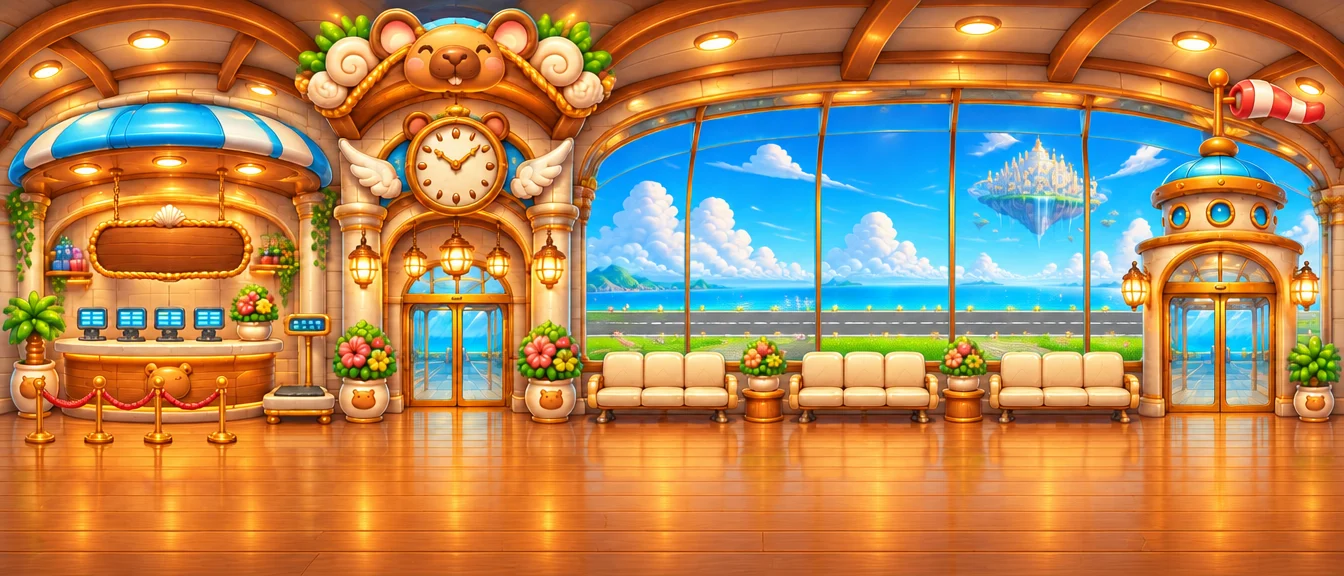
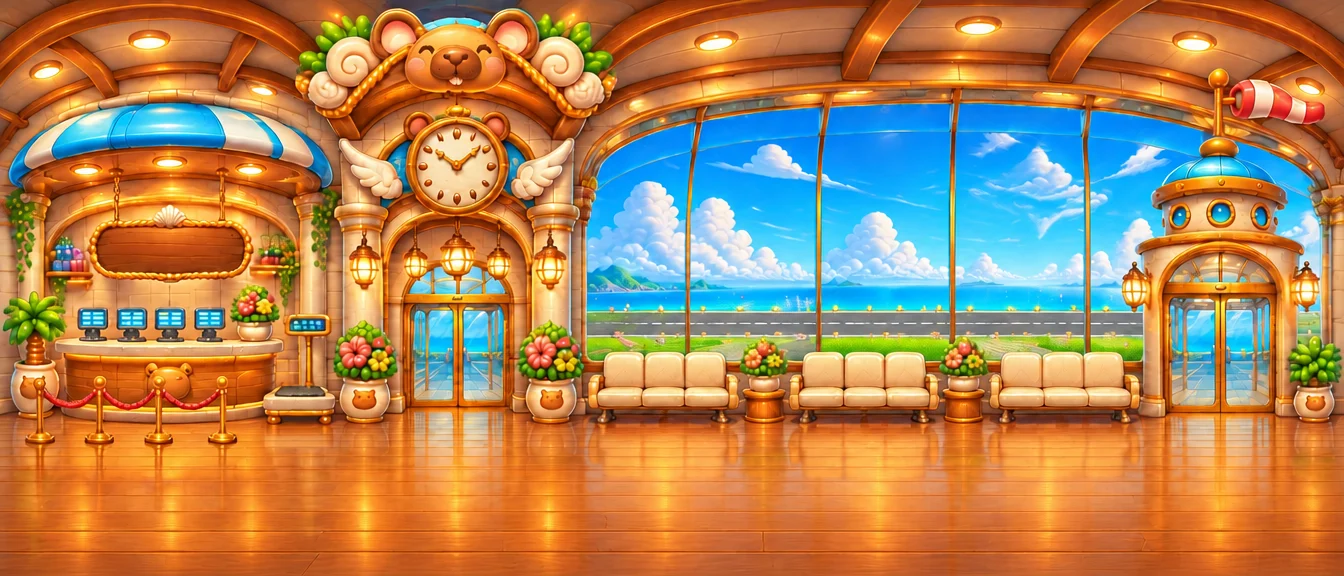
카피공항 예시판: 팻말 맨 앞·바깥 승무원 제거·간판 글씨 키움·비행기 야자수 뒤로·바깥 10초 이착륙 반복·섬 제거·기장 출입구 옆·실내 위아래 이동·출입구 앞 정차 후 10초 탑승
Claude-Session: https://claude.ai/code/session_015t7mweLLBzEFYGgsGmysr6

diff --git a/js/airport.js b/js/airport.js
@@ -1,12 +1,12 @@
 // 카피공항: 놀이터 왼쪽 '카피공항으로' 팻말로 가는 따로 된 공간(농장처럼).
-// 바깥: 바닷가 도로 · 통유리 터미널 · 그 뒤 활주로 · 승무원 둘. 터미널에 들어가면 안쪽: 카운터 · 출국 대기장 · 큰 창 너머 활주로.
+// 바깥: 바닷가 도로 · 통유리 터미널 · 그 뒤 활주로(비행기가 10초마다 내리고 뜬다). 터미널에 들어가면 안쪽: 카운터 · 출국 대기장 · 큰 창 너머 활주로.
 // 비행기: 10분마다 한 번 내려앉아 잠시 머물다 다시 떠난다(두 사람 화면이 같은 시계로 맞춰 움직인다)
 import { h, toast, modal, holdBtn } from './ui.js';
 import { capy } from './capy.js';
 import { sfx } from './sound.js';
 
 const BG_W = 1344, BG_H = 576, WALK_SP = 150;
-export const FLIGHT = { every: 600000, land: 10000, stay: 90000, off: 8000 }; // 10분마다: 10초 동안 왼쪽으로 들어와 내려앉아 서고 → 1분 30초 탑승 → 8초 동안 오른쪽으로 달려 나가 떠난다
+export const FLIGHT = { every: 600000, land: 10000, stay: 10000, off: 8000 }; // 10분마다: 10초 동안 왼쪽으로 들어와 출입구 앞에 서고 → 10초 안에 타야 한다 → 8초 동안 오른쪽으로 달려 나가 떠난다
 export function flightNow(t) { const k = ((t % FLIGHT.every) + FLIGHT.every) % FLIGHT.every, a = FLIGHT.land, b = a + FLIGHT.stay, c = b + FLIGHT.off;
   if (k < a) return { phase: 'land', p: k / a, left: 0 }; if (k < b) return { phase: 'stay', p: (k - a) / FLIGHT.stay, left: b - k }; if (k < c) return { phase: 'off', p: (k - b) / FLIGHT.off, left: 0 };
   return { phase: 'none', p: 0, left: FLIGHT.every - k }; }
@@ -16,10 +16,10 @@ const mmss = ms => { const s = Math.max(0, Math.ceil(ms / 1000)); return `${Math
 const ease = x => x * x * (3 - 2 * x);
 // 비행기 위치(창·활주로 한 칸 기준 0~1, y는 위로 갈수록 -): 들어올 때는 오른쪽 하늘에서 내려와 왼쪽(<)으로 굴러 가운데 멈추고,
 // 떠날 때는 오른쪽을 보고 달려 나가 떠오르며 화면 밖으로 사라진다
-function planePos(f) { if (f.phase === 'land') { const p = f.p; if (p < 0.45) { const e = ease(p / 0.45); return { x: 1.3 - 0.45 * e, y: -0.9 * (1 - e), r: -6 * (1 - e), flip: 0, on: 1 }; }
-    const e = 1 - Math.pow(1 - (p - 0.45) / 0.55, 2); return { x: 0.85 - 0.35 * e, y: 0, r: 0, flip: 0, on: 1 }; }
-  if (f.phase === 'stay') return { x: 0.5, y: 0, r: 0, flip: 0, on: 1 };
-  if (f.phase === 'off') { const p = f.p, e = p * p; return { x: 0.5 + 1.0 * e, y: -Math.max(0, p - 0.5) * 1.6, r: -Math.min(10, Math.max(0, p - 0.45) * 30), flip: 1, on: 1 }; }
+function planePos(f, at = 0.5) { if (f.phase === 'land') { const p = f.p, td = Math.min(0.85, at + 0.45); if (p < 0.45) { const e = ease(p / 0.45); return { x: 1.3 - (1.3 - td) * e, y: -0.9 * (1 - e), r: -6 * (1 - e), flip: 0, on: 1 }; }
+    const e = 1 - Math.pow(1 - (p - 0.45) / 0.55, 2); return { x: td - (td - at) * e, y: 0, r: 0, flip: 0, on: 1 }; }
+  if (f.phase === 'stay') return { x: at, y: 0, r: 0, flip: 0, on: 1 };
+  if (f.phase === 'off') { const p = f.p, e = p * p; return { x: at + (1.4 - at) * e, y: -Math.max(0, p - 0.5) * 1.6, r: -Math.min(10, Math.max(0, p - 0.45) * 30), flip: 1, on: 1 }; }
   return { on: 0 }; }
 
 export function openAirport(o) {
@@ -28,71 +28,77 @@ export function openAirport(o) {
   const demo = !!o.demo, TK = 'air/' + ctx.uid; let tk = { one: 0, round: 0 }; // 가진 핫똑랜드 탑승권(편도·왕복). 예시판은 저장하지 않는다
   const offTk = !demo && ctx.store.on ? ctx.store.on(TK, v => { tk = { one: (v && v.one) || 0, round: (v && v.round) || 0 }; }) : null;
   const H = Math.max(280, Math.min(Math.round(innerHeight * 0.52), 520)), W = Math.round(H * BG_W / BG_H);
-  const me = { x: W * 0.62, tx: W * 0.62 };
+  const me = { x: W * 0.62, tx: W * 0.62, y: 0 }; // y: 실내에서 안쪽(위)으로 들어간 정도 0~1
   const sc = o.scoot ? o.scoot() : null, meEl = h('div', { class: 'fm-me ap-me' + (sc ? ' scoot' : ''), html: sc || capy(ctx.capyOf(ctx.uid, { face: 'happy' })) });
   // 바깥
   const TX = W * 0.14, TWD = W * 0.3, doorX = TX + TWD * 0.42;
   const outPlane = h('img', { class: 'ap-plane out', src: 'img/air/plane.webp', alt: '' });
   const parked = [[0.035, 1], [0.105, 0.85], [0.475, 1], [0.575, 0.9], [0.94, 1]].map(([x, k], i) => h('img', { class: 'ap-parked', src: 'img/air/plane.webp', alt: '', style: { left: W * x + 'px', width: 8.5 * k + '%', transform: `translate(-50%, -100%)${i % 2 ? ' scaleX(-1)' : ''}` } })); // 계류장에 서 있는 비행기들(터미널 양옆·활주로 끝)
   const term = h('button', { class: 'ap-term', 'aria-label': '카피공항 들어가기', style: { left: TX + 'px', width: TWD + 'px' }, onClick: () => walkTo(doorX, goIn) }, h('img', { src: 'img/air/terminal.webp', alt: '' }), h('b', { class: 'ap-term-t' }, '카피공항'));
-  const att = h('img', { class: 'ap-crew tap', src: 'img/air/att.webp', alt: '카피승무원', style: { left: TX + TWD * 1.08 + 'px' }, onClick: () => walkTo(TX + TWD * 1.08 + 40, openTicket) }), pilot = h('img', { class: 'ap-crew', src: 'img/air/pilot.webp', alt: '카피기장', style: { left: TX + TWD * 1.22 + 'px' } });
+  const front = h('img', { class: 'ap-front', src: 'img/air/front.webp', alt: '' }); // 활주로 앞 야자수·난간: 비행기보다 앞에 보이게
   const exitSign = h('button', { class: 'fm-exit', style: { left: W - Math.round(W * 0.13) + 'px' }, onClick: () => close() }, '놀이터로 →');
-  const outWorld = h('div', { class: 'fm-world ap-world', style: { width: W + 'px', height: H + 'px', backgroundImage: 'url(img/air/out.webp)' } }, h('div', { class: 'ap-runway' }, outPlane), ...parked, term, att, pilot, exitSign);
+  const outWorld = h('div', { class: 'fm-world ap-world', style: { width: W + 'px', height: H + 'px', backgroundImage: 'url(img/air/out.webp)' } }, h('div', { class: 'ap-runway' }, outPlane), ...parked, front, term, exitSign);
   // 안쪽
   const counter = h('button', { class: 'ap-counter', 'aria-label': '공항 카운터', onClick: () => walkTo(W * 0.13, openTicket) });
-  const inAtt = h('img', { class: 'ap-crew in tap', src: 'img/air/att.webp', alt: '카피승무원', style: { left: W * 0.115 + 'px' }, onClick: () => walkTo(W * 0.13, openTicket) }), inPilot = h('img', { class: 'ap-crew in', src: 'img/air/pilot.webp', alt: '카피기장', style: { left: W * 0.9 + 'px' } });
+  const inAtt = h('img', { class: 'ap-crew in tap', src: 'img/air/att.webp', alt: '카피승무원', style: { left: W * 0.115 + 'px' }, onClick: () => walkTo(W * 0.13, openTicket) }), inPilot = h('img', { class: 'ap-crew in pl', src: 'img/air/pilot.webp', alt: '카피기장', style: { left: W * 0.445 + 'px' } }); // 기장: 카운터 옆 출입구(탑승구) 곁
   const inPlane = h('img', { class: 'ap-plane in', src: 'img/air/plane.webp', alt: '' });
   const boardEl = h('div', { class: 'ap-board' }), boardRows = h('div', { class: 'ap-brows' }); boardEl.append(h('span', null, `🛫 출발 안내 · ${DEST}행`), boardRows);
   const outBtn = h('button', { class: 'fm-exit ap-out', style: { left: W * 0.27 + 'px' }, onClick: () => goOut() }, '← 밖으로');
   const inWorld = h('div', { class: 'fm-world ap-world in', hidden: true, style: { width: W + 'px', height: H + 'px', backgroundImage: 'url(img/air/in.webp)' } }, h('div', { class: 'ap-window' }, inPlane, h('img', { class: 'ap-mull', src: 'img/air/mullion.webp', alt: '' })), boardEl, counter, inAtt, inPilot, outBtn);
   const scroller = h('div', { class: 'fm-scroll' }, outWorld, inWorld);
-  const keys = new Set(), padBtn = (k, t) => { const b = h('button', { class: 'dp fm-dp', 'aria-label': k === 'L' ? '왼쪽' : '오른쪽' }, t); holdBtn(b, () => keys.add(k), () => keys.delete(k)); return b; };
-  const enterBtn = h('button', { class: 'fm-enter', hidden: true, onClick: () => (!inside ? goIn() : me.x > W * 0.7 ? board() : openTicket()) });
-  const scene = h('div', { class: 'fm-scene' }, scroller, h('div', { class: 'fm-pad' }, padBtn('L', '◀'), enterBtn, padBtn('R', '▶')));
+  const keys = new Set(), padBtn = (k, t) => { const b = h('button', { class: 'dp fm-dp' + (k === 'U' || k === 'D' ? ' ap-v' : ''), 'aria-label': { L: '왼쪽', R: '오른쪽', U: '위', D: '아래' }[k] }, t); holdBtn(b, () => keys.add(k), () => keys.delete(k)); return b; };
+  const enterBtn = h('button', { class: 'fm-enter', hidden: true, onClick: () => (!inside ? goIn() : atGate() ? board() : openTicket()) });
+  const ud = h('div', { class: 'ap-ud', hidden: true }, padBtn('U', '▲'), padBtn('D', '▼')); // 실내에서는 위아래로도 걷는다
+  const scene = h('div', { class: 'fm-scene' }, scroller, h('div', { class: 'fm-pad' }, h('div', { class: 'ap-lr' }, padBtn('L', '◀'), ud), enterBtn, padBtn('R', '▶')));
   const title = h('b', null, '✈ 카피공항'), flightEl = h('span', { class: 'ap-flight' });
   const wrap = h('div', { class: 'fm ap' }, h('div', { class: 'fm-top' }, title, flightEl, h('button', { class: 'top-x', 'aria-label': '닫기', onClick: () => close() }, '✕')), scene);
   document.body.append(wrap);
-  const onKey = e => { const k = e.key === 'ArrowLeft' ? 'L' : e.key === 'ArrowRight' ? 'R' : ''; if (!k || document.querySelector('.modal-wrap')) return; e.preventDefault(); if (e.type === 'keydown') keys.add(k); else keys.delete(k); };
+  const onKey = e => { const k = { ArrowLeft: 'L', ArrowRight: 'R', ArrowUp: 'U', ArrowDown: 'D' }[e.key] || ''; if (!k || document.querySelector('.modal-wrap')) return; e.preventDefault(); if (e.type === 'keydown') keys.add(k); else keys.delete(k); };
   window.addEventListener('keydown', onKey); window.addEventListener('keyup', onKey);
   const world = () => (inside ? inWorld : outWorld);
   function place() { world().append(meEl); }
   place(); requestAnimationFrame(() => { scroller.scrollLeft = me.x - scroller.clientWidth / 2; });
 
   function walkTo(x, then) { me.tx = x; me.then = then; meEl.classList.add('walk'); meEl.classList.toggle('left', x < me.x); }
-  function goIn() { if (inside) return; inside = true; sfx('pop'); outWorld.hidden = true; inWorld.hidden = false; me.x = me.tx = W * 0.36; me.then = null; place(); title.textContent = '✈ 카피공항 · 출국장'; scroller.scrollLeft = 0; }
-  function goOut() { if (!inside) return; inside = false; sfx('pop'); inWorld.hidden = true; outWorld.hidden = false; me.x = me.tx = doorX; me.then = null; place(); title.textContent = '✈ 카피공항'; scroller.scrollLeft = Math.max(0, me.x - scroller.clientWidth / 2); }
-  const canBoard = f => f.phase === 'land' || f.phase === 'stay'; // 비행기가 들어오기 시작(내려앉기 10초 전)부터 출발 전까지 탈 수 있다
+  function goIn() { if (inside) return; inside = true; sfx('pop'); outWorld.hidden = true; inWorld.hidden = false; me.x = me.tx = W * 0.3; me.y = 0; me.then = null; place(); ud.hidden = false; fitCrew(); title.textContent = '✈ 카피공항 · 출국장'; scroller.scrollLeft = 0; }
+  function goOut() { if (!inside) return; inside = false; sfx('pop'); inWorld.hidden = true; outWorld.hidden = false; me.x = me.tx = doorX; me.y = 0; me.then = null; place(); ud.hidden = true; title.textContent = '✈ 카피공항'; scroller.scrollLeft = Math.max(0, me.x - scroller.clientWidth / 2); }
+  const canBoard = f => f.phase === 'stay'; // 비행기가 출입구 앞에 다 서고 나서 10초 안에만 탈 수 있다
+  const atGate = () => inside && me.x > W * 0.27 && me.x < W * 0.56; // 카운터 옆 출입구 앞
+  // 승무원 키를 내 캐릭터에 맞춘다(모자만큼 조금 더). 카운터 승무원은 책상 뒤에 서 있게 아래를 가린다
+  function fitCrew() { requestAnimationFrame(() => { const ch = meEl.getBoundingClientRect().height || 80, hh = Math.round(ch * 1.12); inPilot.style.height = hh + 'px'; inAtt.style.height = hh + 'px'; inAtt.style.bottom = Math.round(0.43 * H - 0.38 * hh) + 'px'; }); }
   function openTicket() { const f = flightNow(now()), dep = depAt(now());
     const row = (k, name, desc) => h('button', { class: 'ap-tk', onClick: () => buy(k, name) }, h('b', null, `🎫 ${DEST} ${name}`), h('small', null, desc), h('em', null, `${TICKET[k].toLocaleString()}코인`));
     modal({ title: `🎫 ${DEST} 탑승권`, body: [h('div', { class: 'ap-cnt' }, h('img', { src: 'img/air/att.webp', alt: '' }),
       h('p', null, `어서 오세요, 카피공항입니다! ✈`, h('br'), `${DEST}행 카피 오픈카 비행기는 10분마다 한 대씩 떠나요.`),
-      h('p', { class: 'ap-cnt-s' }, canBoard(f) ? `지금 탑승할 수 있어요 · ${hhmm(dep)} 출발` : `다음 비행기 ${hhmm(dep)} 출발 · 탑승은 도착 10초 전부터`),
+      h('p', { class: 'ap-cnt-s' }, canBoard(f) ? `지금 탑승할 수 있어요 · ${mmss(f.left)} 뒤 마감` : `다음 비행기 ${hhmm(dep)} 출발 · 출입구 앞에 선 뒤 10초 안에 타야 해요`),
       demo && h('p', { class: 'ap-cnt-n' }, '🧪 예시판이라 코인은 빠지지 않아요'),
       row('one', '편도', '가는 비행기 한 번'), row('round', '왕복', '갔다가 돌아오는 비행기 · 더 싸요'),
       h('p', { class: 'ap-cnt-n' }, `가진 탑승권: 편도 ${tk.one}장 · 왕복 ${tk.round}장`))], actions: [{ label: '닫기' }] }); }
   async function buy(k, name) { const cost = TICKET[k]; document.querySelectorAll('.modal-wrap').forEach(m => m.remove());
     if (!demo) { if (!(await ctx.spend(cost))) return; await ctx.store.update(TK, { [k]: (tk[k] || 0) + 1 }).catch(() => {}); } else tk = { ...tk, [k]: (tk[k] || 0) + 1 };
     sfx('coin'); toast(`🎫 ${DEST} ${name} 탑승권을 샀어요!${demo ? ' (예시판)' : ''}`, 1800); }
-  function board() { const f = flightNow(now()); if (!canBoard(f)) return toast(`탑승은 비행기가 들어오기 시작할 때(도착 10초 전)부터 할 수 있어요 · 다음 출발 ${hhmm(depAt(now()))}`, 2200);
+  function board() { const f = flightNow(now()); if (!canBoard(f)) return toast(f.phase === 'land' ? '비행기가 출입구 앞에 다 설 때까지 기다려 주세요!' : `탑승 시간이 아니에요 · 다음 출발 ${hhmm(depAt(now()))} (도착 뒤 10초 안에 타요)`, 2200);
     if (!tk.one && !tk.round) return toast('🎫 탑승권이 없어요. 승무원에게서 먼저 사 주세요!', 1800);
     sfx('pop'); modal({ title: `✈ ${DEST}행 탑승`, body: [h('div', { class: 'ap-cnt' }, h('img', { src: 'img/air/pilot.webp', alt: '' }), h('p', null, `${DEST}는 지금 한창 공사 중이래요! 🚧`, h('br'), '조금만 기다려 주세요. 곧 날아갈 수 있어요.'), h('p', { class: 'ap-cnt-n' }, '탑승권은 그대로 가지고 있어요.'))], actions: [{ label: '알겠어요', primary: true }] }); }
   // 출발 시각: 이번(또는 다음) 비행기가 떠나는 때
   function depAt(t) { const blk = Math.floor(t / FLIGHT.every) * FLIGHT.every, d = blk + FLIGHT.land + FLIGHT.stay; return t < d ? d : d + FLIGHT.every; }
 
   let lastT = performance.now(), tick = 0;
-  function drawPlane(el, f) { const q = planePos(f); if (!q.on) { el.style.opacity = '0'; return; } el.style.opacity = '1'; el.style.left = q.x * 100 + '%'; el.style.transform = `translate(-50%, ${(q.y * 100 - 100).toFixed(1)}%) rotate(${q.r.toFixed(1)}deg)${q.flip ? ' scaleX(-1)' : ''}`; }
-  function drawBoard(f) { const t = now(), d0 = depAt(t), rows = [0, 1, 2].map(i => { const d = d0 + i * FLIGHT.every, st = i ? '예정' : canBoard(f) ? '탑승 중' : f.phase === 'off' ? '출발' : `${mmss(d - FLIGHT.stay - FLIGHT.land - t)} 뒤 도착`; return [hhmm(d), st, !i && canBoard(f)]; });
+  function drawPlane(el, f, at) { const q = planePos(f, at); if (!q.on) { el.style.opacity = '0'; return; } el.style.opacity = '1'; el.style.left = q.x * 100 + '%'; el.style.transform = `translate(-50%, ${(q.y * 100 - 100).toFixed(1)}%) rotate(${q.r.toFixed(1)}deg)${q.flip ? ' scaleX(-1)' : ''}`; }
+  function drawBoard(f) { const t = now(), d0 = depAt(t), rows = [0, 1, 2].map(i => { const d = d0 + i * FLIGHT.every, st = i ? '예정' : canBoard(f) ? `탑승 마감 ${mmss(f.left)}` : f.phase === 'land' ? '도착 중 · 곧 탑승' : f.phase === 'off' ? '출발' : `${mmss(d - FLIGHT.stay - FLIGHT.land - t)} 뒤 도착`; return [hhmm(d), st, !i && canBoard(f)]; });
     const key = rows.map(r => r.join('|')).join('/'); if (key !== boardRows.dataset.k) { boardRows.dataset.k = key; boardRows.replaceChildren(...rows.map(([tm, st, on]) => h('div', { class: 'ap-brow' + (on ? ' on' : '') }, h('b', null, tm), h('span', null, DEST), h('em', null, st)))); }
-    flightEl.textContent = canBoard(f) ? `✈ 탑승 중 · ${hhmm(d0)}` : `✈ 다음 ${hhmm(d0)}`; }
+    flightEl.textContent = canBoard(f) ? `✈ 탑승 마감 ${mmss(f.left)}` : f.phase === 'land' ? '✈ 도착 중' : `✈ 다음 ${hhmm(d0)}`; }
   function step(t) { if (!alive) return; const dt = Math.min(0.05, (t - lastT) / 1000); lastT = t;
     const dir = (keys.has('R') ? 1 : 0) - (keys.has('L') ? 1 : 0), lo = inside ? W * 0.05 : 30, hi = W - 30;
     if (dir && !document.querySelector('.modal-wrap')) { me.x = Math.max(lo, Math.min(hi, me.x + dir * WALK_SP * (sc ? 1.8 : 1) * dt)); me.tx = me.x; me.then = null; meEl.classList.add('walk'); meEl.classList.toggle('left', dir < 0); }
     const d = me.tx - me.x; if (Math.abs(d) > 2) me.x += Math.sign(d) * Math.min(Math.abs(d), WALK_SP * (sc ? 1.8 : 1) * dt); else if (me.then) { const f = me.then; me.then = null; meEl.classList.remove('walk'); f(); } else if (!dir) meEl.classList.remove('walk');
-    meEl.style.left = me.x + 'px';
+    const vy = inside && !document.querySelector('.modal-wrap') ? (keys.has('U') ? 1 : 0) - (keys.has('D') ? 1 : 0) : 0; if (vy) { me.y = Math.max(0, Math.min(1, me.y + vy * 0.9 * dt)); meEl.classList.add('walk'); }
+    meEl.style.left = me.x + 'px'; meEl.style.bottom = inside ? `${1 + me.y * 22}%` : ''; meEl.style.transform = inside ? `translateX(-50%) scale(${(1 - me.y * 0.14).toFixed(3)})` : ''; meEl.style.zIndex = inside ? String(6 - Math.round(me.y * 3)) : '';
     const want = me.x - scroller.clientWidth / 2; if (Math.abs(scroller.scrollLeft - want) > 4 && (meEl.classList.contains('walk') || dir)) scroller.scrollLeft += (want - scroller.scrollLeft) * Math.min(1, dt * 6);
-    const gate = inside && me.x > W * 0.7, near = inside ? me.x < W * 0.24 || gate : Math.abs(me.x - doorX) < TWD * 0.55, lab = !inside ? '✈ 공항 들어가기' : gate ? '✈ 탑승하기' : '🎫 탑승권 사기';
+    const gate = atGate(), near = inside ? me.x < W * 0.24 || gate : Math.abs(me.x - doorX) < TWD * 0.55, lab = !inside ? '✈ 공항 들어가기' : gate ? '✈ 탑승하기' : '🎫 탑승권 사기';
     if (enterBtn.hidden === near) enterBtn.hidden = !near; if (enterBtn.textContent !== lab) enterBtn.textContent = lab;
-    const f = flightNow(now()); drawPlane(inside ? inPlane : outPlane, f); if ((tick += dt) > 0.5) { tick = 0; drawBoard(f); }
+    const f = flightNow(now()); if (inside) drawPlane(inPlane, f, 0.2); else { const k = now() % 20000; drawPlane(outPlane, k < 10000 ? { phase: k < 8000 ? 'land' : 'stay', p: Math.min(1, k / 8000) } : k < 18000 ? { phase: 'off', p: (k - 10000) / 8000 } : { phase: 'none' }, 0.5); } // 바깥은 10초마다 내려앉고 떠나는 모습을 되풀이
+    if ((tick += dt) > 0.5) { tick = 0; drawBoard(f); }
     raf = requestAnimationFrame(step); }
   raf = requestAnimationFrame(step);
   function close() { if (!alive) return; alive = false; window.removeEventListener('keydown', onKey); window.removeEventListener('keyup', onKey); cancelAnimationFrame(raf); if (offTk) offTk(); wrap.remove(); o.onClose && o.onClose(); }

diff --git a/css/app.css b/css/app.css
@@ -3136,7 +3136,7 @@ img.kb-sic { width: 30px; height: 30px; object-fit: contain; display: block; mar
 .ap-term { position: absolute; bottom: 31%; z-index: 2; padding: 0; border: 0; background: none; cursor: pointer; aspect-ratio: 900 / 682; container-type: inline-size; }
 .ap-term img { width: 100%; height: 100%; display: block; filter: drop-shadow(0 6px 6px rgba(0,0,0,.18)); }
 .ap-term:active { transform: scale(.98); }
-.ap-term-t { position: absolute; left: 22%; right: 31%; top: 4%; height: 13%; display: flex; align-items: center; justify-content: center; font: 900 8cqw/1 var(--head); color: #FFF6E0; letter-spacing: -.5px; text-shadow: 0 2px 0 #7A4A1E, 2px 0 #7A4A1E, -2px 0 #7A4A1E, 0 -2px #7A4A1E; }
+.ap-term-t { position: absolute; left: 19%; right: 28%; top: 3%; height: 16%; display: flex; align-items: center; justify-content: center; font: 900 12.5cqw/1 var(--head); color: #FFF6E0; letter-spacing: -.5px; text-shadow: 0 2px 0 #7A4A1E, 2px 0 #7A4A1E, -2px 0 #7A4A1E, 0 -2px #7A4A1E; }
 .ap-crew { position: absolute; bottom: 9%; height: 31%; transform: translateX(-50%); z-index: 3; pointer-events: none; animation: apBob 2.6s ease-in-out infinite; }
 .ap-crew + .ap-crew { animation-delay: -1.3s; }
 .ap-crew.in { bottom: 10%; height: 30%; }
@@ -3152,7 +3152,7 @@ img.kb-sic { width: 30px; height: 30px; object-fit: contain; display: block; mar
 .ap-cnt { display: flex; flex-direction: column; align-items: center; gap: 8px; text-align: center; }
 .ap-cnt img { height: 110px; } .ap-cnt p { margin: 0; line-height: 1.5; } .ap-cnt-s { font-weight: 800; color: #2F6FA8; } .ap-cnt-n { font-size: 13px; color: #8a6a3a; }
 /* 놀이터: 농장 팻말 아래 '카피공항으로' 팻말(대각선 아래) */
-.so-airsign { position: absolute; bottom: 6%; z-index: 2; padding: 0; border: 0; background: none; cursor: pointer; aspect-ratio: 323 / 360; }
+.so-airsign { position: absolute; bottom: 6%; z-index: 400; padding: 0; border: 0; background: none; cursor: pointer; aspect-ratio: 323 / 360; }
 .so-airsign img { width: 100%; height: 100%; display: block; filter: drop-shadow(0 2px 2px rgba(0,0,0,.2)); }
 .so-airsign b { position: absolute; left: 14%; right: 6%; top: 25%; height: 24%; display: flex; align-items: center; justify-content: center; transform: rotate(-21deg); font: 900 clamp(11px, 3.6vw, 15px)/1 var(--head); letter-spacing: -.5px; color: #2F6FA8; white-space: nowrap; text-shadow: 1.5px 0 #FFF3D6, -1.5px 0 #FFF3D6, 0 1.5px #FFF3D6, 0 -1.5px #FFF3D6; }
 .so-airsign:active { transform: scale(.96); }
@@ -3166,3 +3166,8 @@ img.kb-sic { width: 30px; height: 30px; object-fit: contain; display: block; mar
 .ap-tk { display: grid; grid-template-columns: 1fr auto; grid-template-rows: auto auto; width: 100%; text-align: left; gap: 2px 10px; padding: 10px 12px; border-radius: 14px; border: 2px solid #9CC6EE; background: #F1F8FF; cursor: pointer; }
 .ap-tk b { font: 900 15px/1.2 var(--head); color: #2F6FA8; } .ap-tk small { grid-row: 2; font-size: 12px; color: #6a7f95; } .ap-tk em { grid-row: 1 / 3; grid-column: 2; align-self: center; font: 900 14px/1 var(--head); font-style: normal; color: #B8860B; background: #FFF3C4; border: 2px solid #E0B43A; border-radius: 10px; padding: 6px 8px; }
 .ap-tk:active { transform: scale(.98); }
+
+.ap-front { position: absolute; left: 46.95%; top: 43.92%; width: 53.05%; height: 27.96%; z-index: 1; pointer-events: none; }
+.ap-lr { display: flex; align-items: flex-end; gap: 6px; }
+.ap-ud { display: flex; flex-direction: column; gap: 4px; } .ap-ud[hidden] { display: none; }
+.fm-dp.ap-v { width: 46px; height: 40px; min-width: 0; font-size: 16px; padding: 0; }
